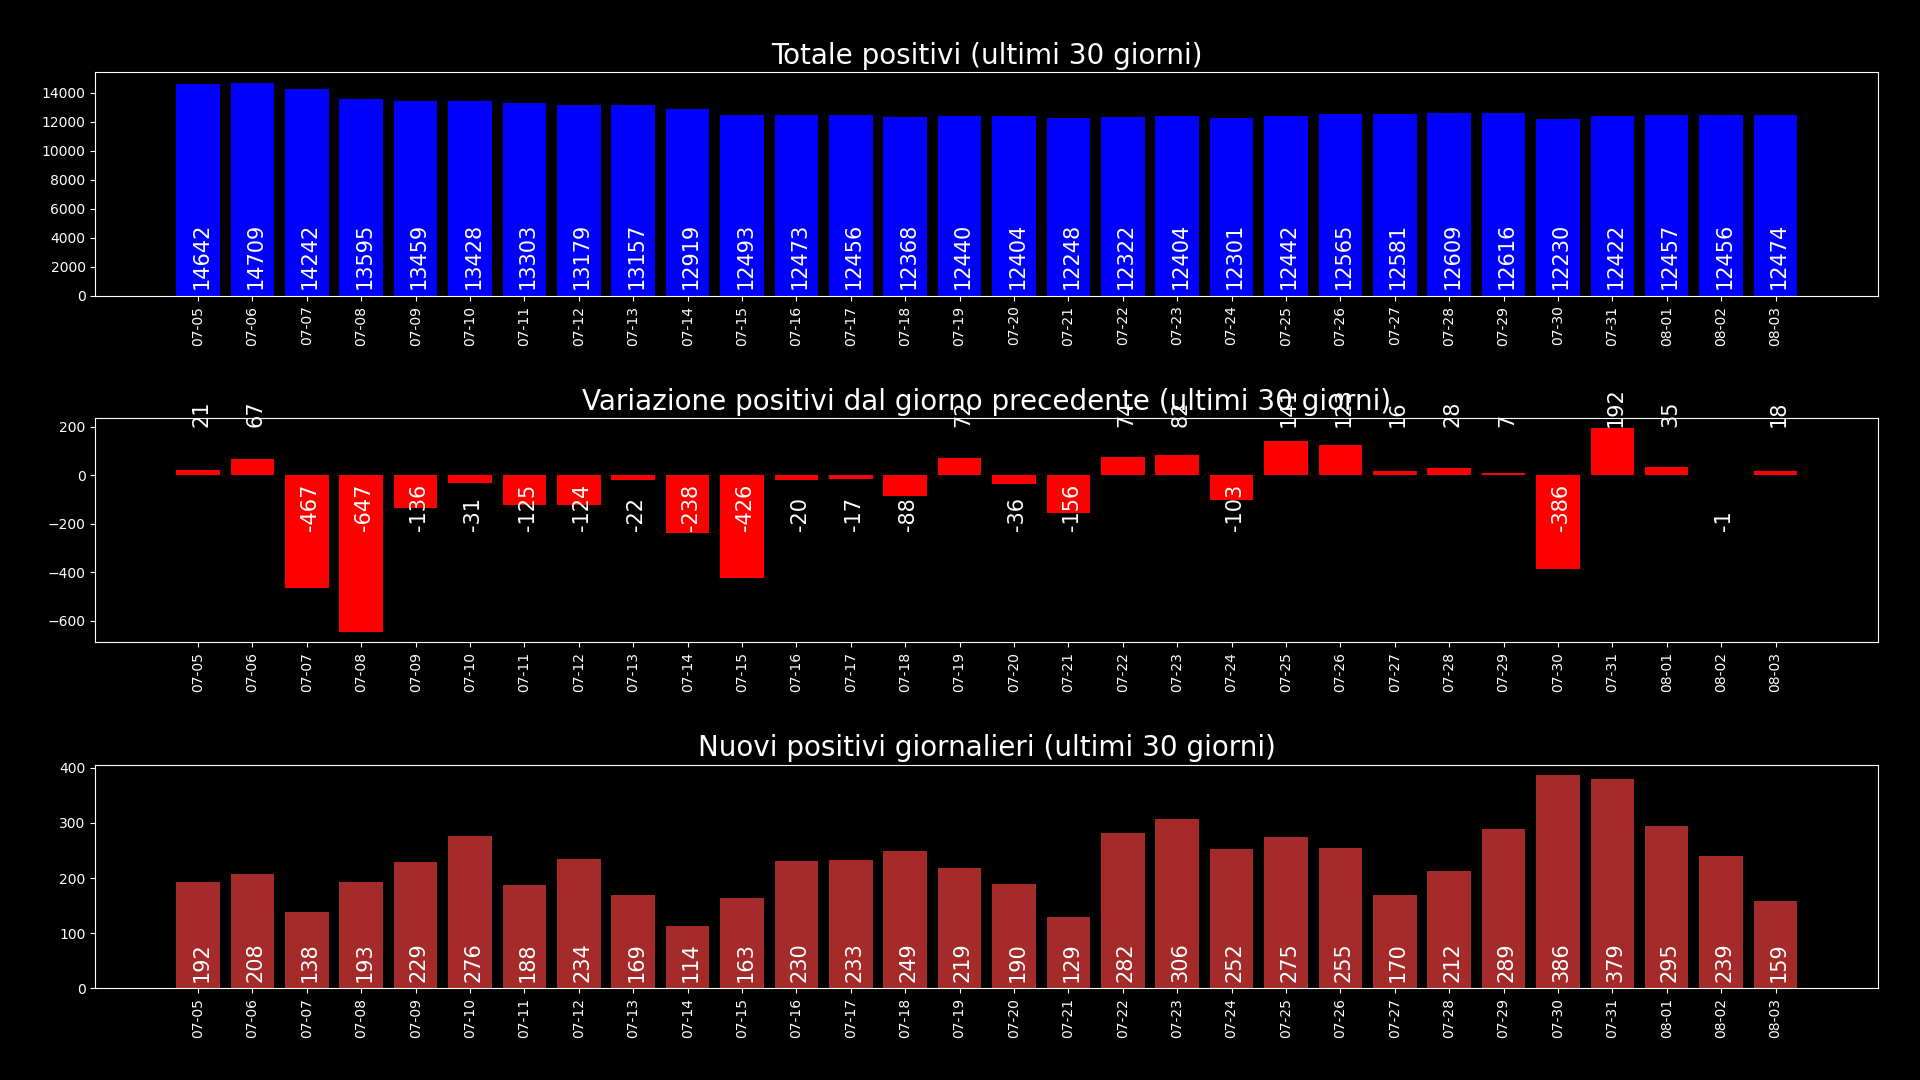
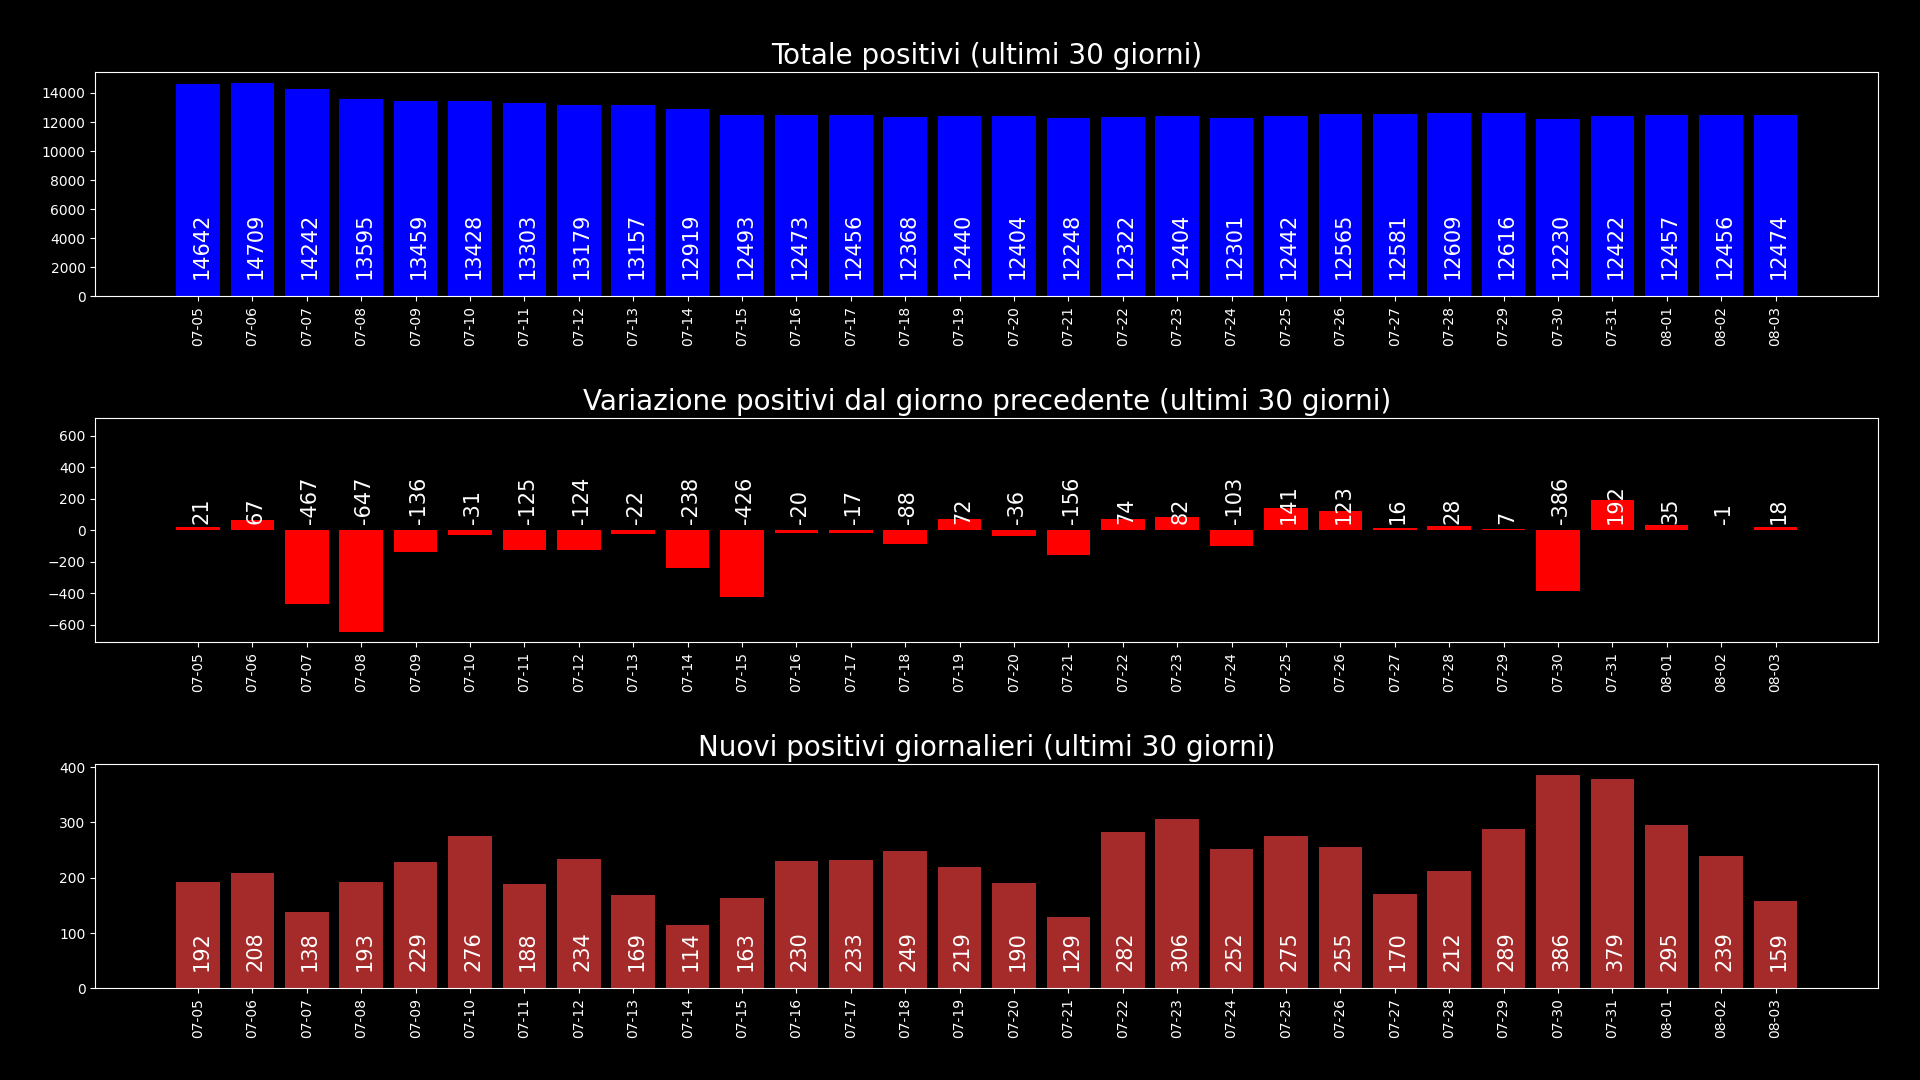
Fixed totpos labels

diff --git a/covid19graphs/src/totposandnewpos.py b/covid19graphs/src/totposandnewpos.py
@@ -23,10 +23,7 @@ def add_text_overbar(dataframe, title, color, offset, ax):
     listadati = [h if h > 0 else -h for h in dataframe[title]]
     maxval = max(listadati)
     for i, v in enumerate(dataframe[title]):
-        if (v < 0):
-            ax.text(i-0.125, -offset*maxval, str(v), rotation=90, color=color, fontsize=15)
-        else:
-            ax.text(i-0.125, offset*maxval, str(v), rotation=90, color=color, fontsize=15)
+        ax.text(i-0.125, offset*maxval, str(v), rotation=90, color=color, fontsize=15)
 
 def rotate_ticks(axes):
     for ax in axes:
@@ -54,21 +51,27 @@ def main():
     #Sezione totale positivi
     axes[0].set_title('Totale positivi (ultimi 30 giorni)', fontsize=20)
     #Inserisco etichette per ogni barra
-    add_text_overbar(dataframe, 'totale_positivi', "white", 1/20, axes[0])
+    add_text_overbar(dataframe, 'totale_positivi', "white", 1/10, axes[0])
     #axes[0] conterrà il primo grafico a barre
     axes[0].bar(x, dataframe['totale_positivi'], color="blue")
 
     #Sezione variazione positivi
     axes[1].set_title('Variazione positivi dal giorno precedente (ultimi 30 giorni)', fontsize=20)
     #Inserisco etichette per ogni barra
-    add_text_overbar(dataframe, 'variazione_totale_positivi', "white", 1/3, axes[1])
+    add_text_overbar(dataframe, 'variazione_totale_positivi', "white", 1/10, axes[1])
+    #Un accorgimento per centrare il grafico quando ci sono sia dati positivi che negativi
+    maxvarpos = max(dataframe['variazione_totale_positivi'].apply(lambda n: abs(n)))
+    offset = 1/10 * maxvarpos
+    #setto i limiti dell'asse y
+    axes[1].set_ylim(-maxvarpos - offset, maxvarpos + offset)
     #axes[1] conterrà il secondo grafico a barre
     axes[1].bar(x, dataframe['variazione_totale_positivi'], color="red")
+
 
     #Sezione nuovi positivi per giorno
     axes[2].set_title('Nuovi positivi giornalieri (ultimi 30 giorni)', fontsize=20)
     #Inserisco etichette per ogni barra
-    add_text_overbar(dataframe, 'nuovi_positivi', "white", 1/20, axes[2])
+    add_text_overbar(dataframe, 'nuovi_positivi', "white", 1/10, axes[2])
     #axes[2] conterrà il secondo grafico a barre
     axes[2].bar(x, dataframe['nuovi_positivi'], color="brown")
 
